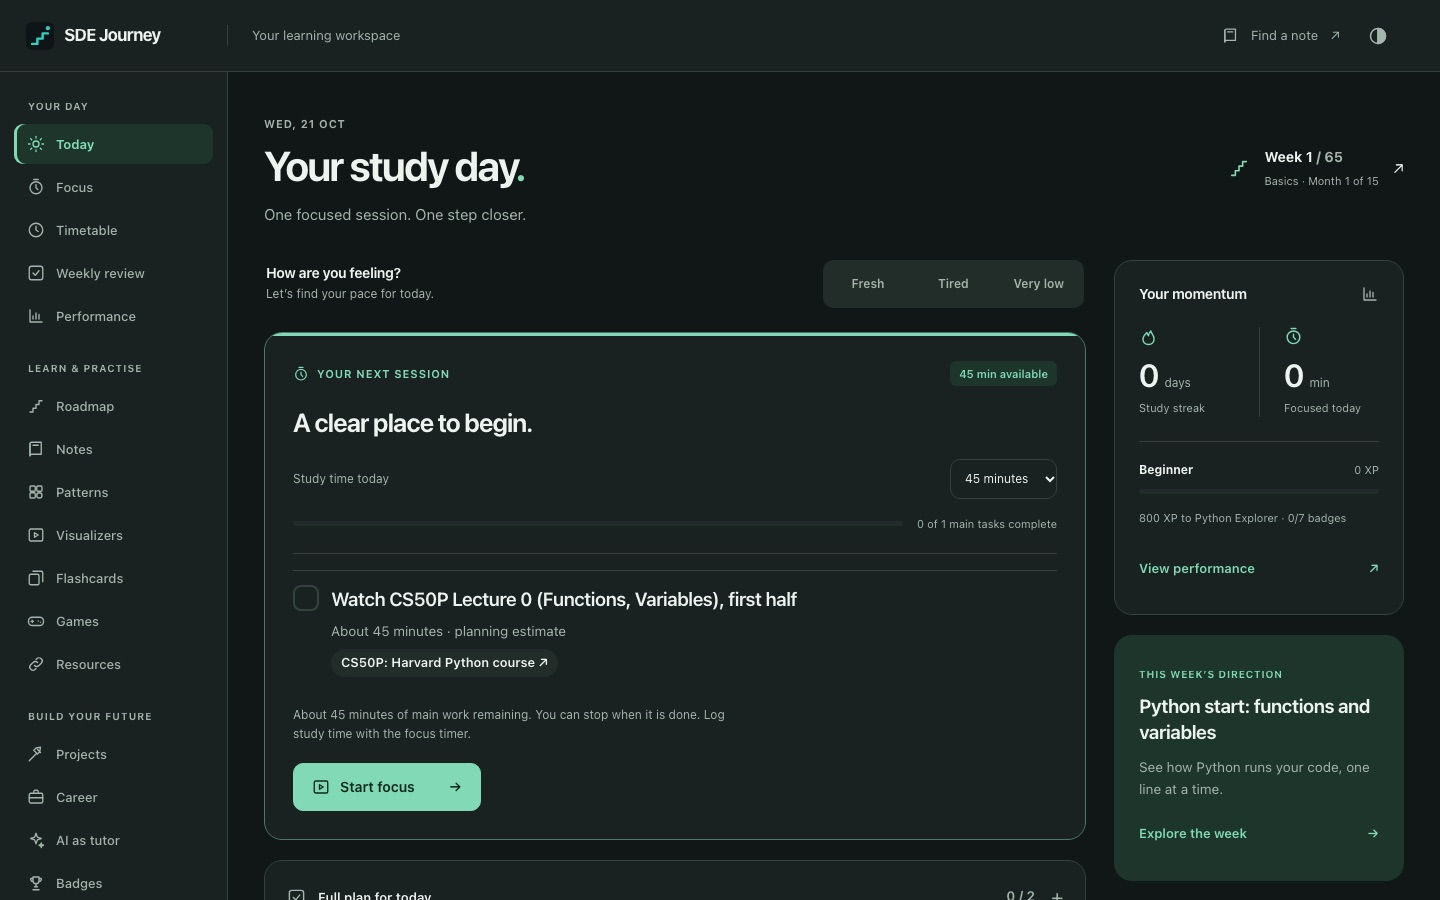
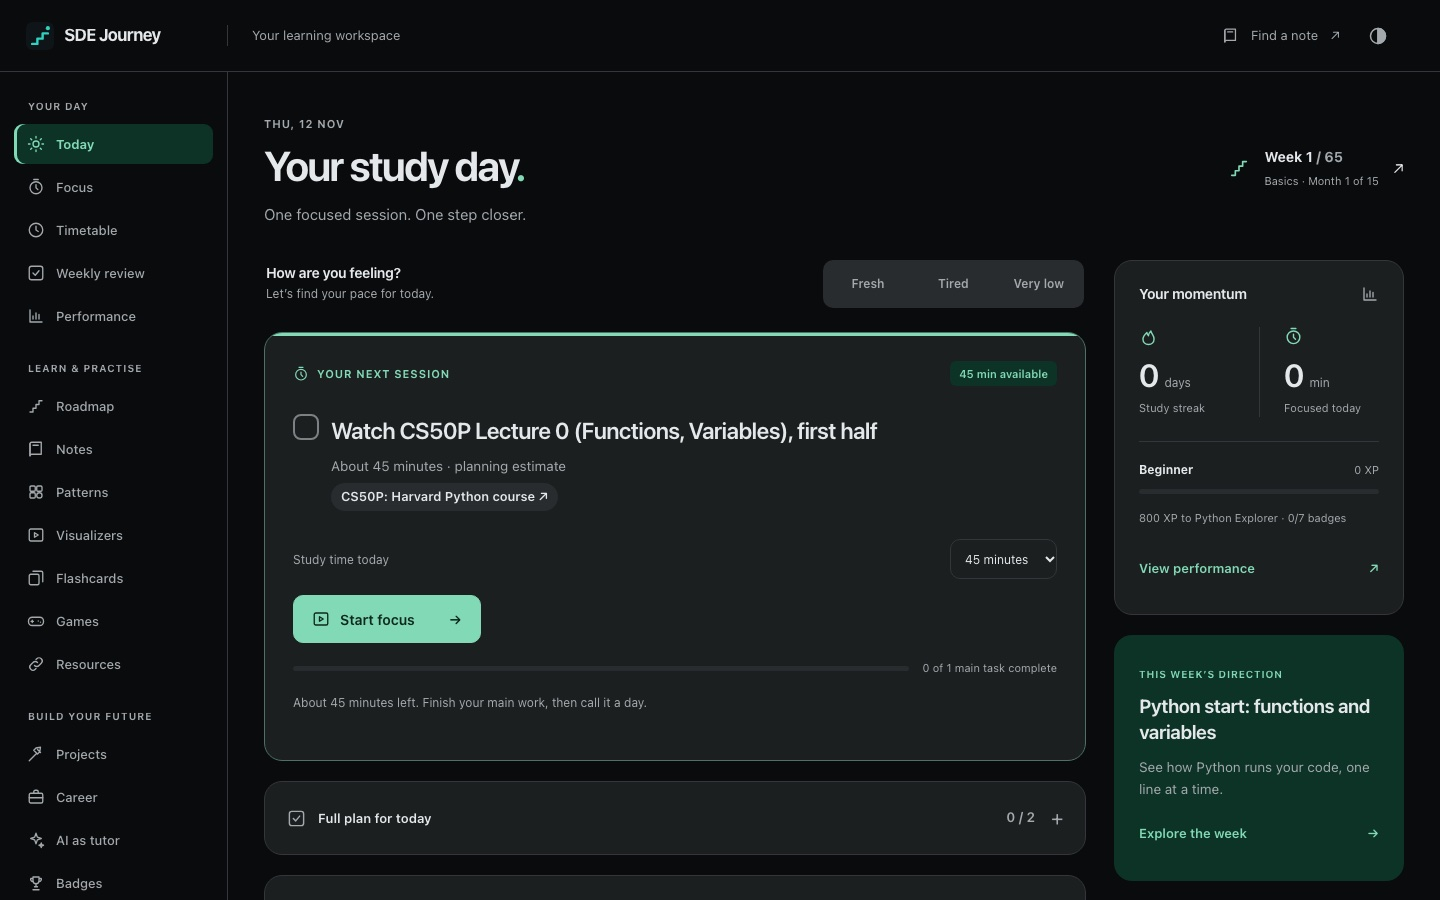
Clearer dark mode
- Neutral greys on near-black instead of green-grey: page and bars black,
  cards clearly lighter, green only where it means something.
- Checkbox outlines reach 3:1 contrast (both themes). Inputs sit into the
  card instead of looking like holes. The selected segment is lighter than
  its track (it looked pressed in before).
- Charts use a calmer green at night.
- The phone status bar matches the top bar in each theme, also when the
  theme is forced with the theme button.
- Confetti uses real theme colours. It was always black, so invisible in
  dark mode.
- README screenshot updated.

diff --git a/src/index.css b/src/index.css
@@ -4,15 +4,22 @@
    ============================================================ */
 :root {
   color-scheme: light dark;
-  --bg: light-dark(#f5f7f6, #111716);
-  --surface: light-dark(#ffffff, #192120);
-  --surface-2: light-dark(#edf1ef, #222d29);
-  --border: light-dark(#dce4df, #34423c);
-  --text: light-dark(#1d3029, #edf3ef);
-  --muted: light-dark(#607168, #a4b5ab);
+  /* Dark: neutral greys on near-black, green only where it means something.
+     Page and bars stay black so the cards are the only lifted layer. */
+  --bg: light-dark(#f5f7f6, #090b0c);
+  --chrome: light-dark(#ffffff, #090b0c); /* top bar, side menu, tab bar */
+  --surface: light-dark(#ffffff, #1c1f20);
+  --surface-2: light-dark(#edf1ef, #282c2e);
+  --raised: light-dark(#ffffff, #33373a); /* selected segment: lighter than its track */
+  --field: light-dark(#f5f7f6, #121516); /* inputs: set into the card, not a black hole */
+  --border: light-dark(#dce4df, #33373a);
+  --control: light-dark(#7e8984, #7c8184); /* checkbox outlines: at least 3:1 on a card */
+  --text: light-dark(#1d3029, #e5e8ea);
+  --muted: light-dark(#607168, #a3a9ac);
   --accent: light-dark(#09694e, #81d9b5);
-  --accent-soft: light-dark(#e8f3ed, #1d352b);
+  --accent-soft: light-dark(#e8f3ed, #0d3326);
   --on-accent: light-dark(#ffffff, #10291e);
+  --chart: light-dark(#09694e, #3da880); /* large filled areas: calmer than the accent at night */
   --warn: light-dark(#a15c07, #f0b45a);
   --danger: light-dark(#b42318, #f88a7e);
 
@@ -52,7 +59,7 @@ button, input, textarea, select { font: inherit; color: inherit; }
 .topbar {
   position: sticky; top: 0; z-index: 10; display: flex; align-items: center; gap: 24px;
   min-height: 72px; padding: env(safe-area-inset-top) 24px 0;
-  background: var(--surface); border-bottom: 1px solid var(--border);
+  background: var(--chrome); border-bottom: 1px solid var(--border);
 }
 .brand { display: flex; align-items: center; gap: 10px; font-size: 17px; font-weight: 700; letter-spacing: -0.04em; color: var(--text); text-decoration: none; white-space: nowrap; }
 .brand img { width: 28px; height: 28px; }
@@ -64,7 +71,7 @@ button, input, textarea, select { font: inherit; color: inherit; }
 .skip-link { position: fixed; left: 16px; top: -100px; z-index: 60; background: var(--accent); color: var(--on-accent); padding: 12px 20px; border-radius: var(--radius-sm); }
 .skip-link:focus { top: 12px; }
 .sr-only { position: absolute; width: 1px; height: 1px; padding: 0; margin: -1px; overflow: hidden; clip-path: inset(50%); white-space: nowrap; border: 0; }
-.tabbar { position: fixed; inset: auto 0 0; z-index: 10; display: grid; grid-template-columns: repeat(5, 1fr); min-height: calc(var(--tabbar-h) + env(safe-area-inset-bottom)); padding: 6px 8px calc(6px + env(safe-area-inset-bottom)); background: var(--surface); border-top: 1px solid var(--border); }
+.tabbar { position: fixed; inset: auto 0 0; z-index: 10; display: grid; grid-template-columns: repeat(5, 1fr); min-height: calc(var(--tabbar-h) + env(safe-area-inset-bottom)); padding: 6px 8px calc(6px + env(safe-area-inset-bottom)); background: var(--chrome); border-top: 1px solid var(--border); }
 .tab { display: flex; flex-direction: column; align-items: center; justify-content: center; gap: 2px; color: var(--muted); text-decoration: none; font-size: 11px; font-weight: 600; min-height: 48px; border-radius: 12px; }
 .tab svg { width: 20px; height: 20px; }
 .tab.active { background: var(--accent-soft); color: var(--accent); }
@@ -76,7 +83,7 @@ button, input, textarea, select { font: inherit; color: inherit; }
   .workspace-label { display: block; padding-left: 24px; border-left: 1px solid var(--border); }
   .tabbar { display: none; }
   .main { padding: 38px 36px 64px; }
-  .sidenav { display: flex; flex-direction: column; gap: 24px; padding: 26px 14px 20px; position: sticky; top: 72px; height: calc(100dvh - 72px); overflow-y: auto; border-right: 1px solid var(--border); background: var(--surface); scrollbar-width: thin; }
+  .sidenav { display: flex; flex-direction: column; gap: 24px; padding: 26px 14px 20px; position: sticky; top: 72px; height: calc(100dvh - 72px); overflow-y: auto; border-right: 1px solid var(--border); background: var(--chrome); scrollbar-width: thin; }
   .nav-group { display: flex; flex-direction: column; gap: 3px; }
   .nav-group-label { font-size: 10px; font-weight: 650; letter-spacing: 0.1em; text-transform: uppercase; color: var(--muted); padding: 0 14px 7px; }
   .sidenav-link { display: flex; align-items: center; gap: 11px; min-height: 40px; padding: 8px 13px; border-radius: 9px; color: var(--muted); text-decoration: none; font-weight: 500; font-size: 13px; }
@@ -138,7 +145,7 @@ button, input, textarea, select { font: inherit; color: inherit; }
 /* Native checkbox, restyled. appearance:none keeps keyboard and screen-reader support. */
 .tick {
   appearance: none; flex: none; margin: 0; width: 26px; height: 26px; cursor: pointer;
-  border: 2px solid var(--border); border-radius: 8px; background: var(--surface);
+  border: 2px solid var(--control); border-radius: 8px; background: var(--surface);
   display: grid; place-content: center; transition: background 0.15s, border-color 0.15s;
 }
 .tick::before {
@@ -179,7 +186,7 @@ a.chip:hover { background: var(--accent-soft); color: var(--accent); }
 .energy-check p { margin: 0; font-size: 12px; }
 .segmented { display: grid; grid-template-columns: repeat(3, minmax(0, 1fr)); gap: 3px; padding: 4px; border-radius: 10px; background: var(--surface-2); }
 .segmented button { min-height: 40px; padding: 7px 16px; border: 0; border-radius: 7px; background: none; font-size: 12px; font-weight: 600; cursor: pointer; color: var(--muted); }
-.segmented button.on { background: var(--surface); color: var(--text); box-shadow: 0 1px 4px light-dark(#1d30291a, #00000030); }
+.segmented button.on { background: var(--raised); color: var(--text); box-shadow: 0 1px 4px light-dark(#1d30291a, #00000030); }
 .daily-study { position: relative; border-color: color-mix(in srgb, var(--accent) 35%, var(--border)); background: var(--surface); padding: 28px; overflow: hidden; }
 .daily-study::before { content: ''; position: absolute; top: 0; left: 0; right: 0; height: 3px; background: var(--accent); }
 .session-topline { display: flex; justify-content: space-between; align-items: center; gap: 12px; margin-bottom: 20px; }
@@ -263,7 +270,7 @@ a.chip:hover { background: var(--accent-soft); color: var(--accent); }
 /* ---------- Forms ---------- */
 .input {
   width: 100%; padding: 10px 12px; border-radius: var(--radius-sm); border: 1px solid var(--border);
-  background: var(--bg); color: var(--text); resize: vertical;
+  background: var(--field); color: var(--text); resize: vertical;
 }
 .input:focus { outline: 2px solid var(--accent); outline-offset: 0; border-color: transparent; }
 .btn.danger { color: var(--danger); border-color: var(--danger); background: none; }
@@ -486,7 +493,7 @@ a.stat:hover { border-color: var(--accent); }
 .bar.is-warn > span { background: var(--warn); }
 .insights { margin: 0; padding-left: 20px; display: grid; gap: 8px; }
 .chart { display: block; width: 100%; max-width: 560px; height: auto; margin: 4px 0 12px; overflow: visible; }
-.chart-bar { fill: var(--accent); }
+.chart-bar { fill: var(--chart); }
 .chart-axis { stroke: var(--border); stroke-width: 1; }
 .chart-label, .chart-value { font-size: 9px; fill: var(--muted); }
 .chart-value { fill: var(--text); }
@@ -506,7 +513,7 @@ a.stat:hover { border-color: var(--accent); }
 /* ---------- Library, roadmap and reading ---------- */
 .library-count { display: inline-block; margin-top: 18px; font-size: 12px; color: var(--accent); }
 .library-filters { padding: 18px; }
-.library-filters input[type=search] { min-height: 50px; background: var(--bg); font-size: 15px; }
+.library-filters input[type=search] { min-height: 50px; background: var(--field); font-size: 15px; }
 .library-section > .section-title { padding-bottom: 18px; }
 .library-section h2 { display: flex; gap: 12px; align-items: center; font-size: 15px; }
 .section-letter { display: grid; place-items: center; width: 30px; height: 30px; flex-shrink: 0; background: var(--accent-soft); color: var(--accent); border-radius: 8px; font-size: 12px; }

diff --git a/index.html b/index.html
@@ -5,14 +5,19 @@
     <link rel="icon" type="image/svg+xml" href="/favicon.svg" />
     <link rel="apple-touch-icon" href="/apple-touch-icon.png" />
     <meta name="viewport" content="width=device-width, initial-scale=1.0, viewport-fit=cover" />
-    <meta name="theme-color" content="#0f1419" />
+    <!-- The phone's status bar takes the top bar's colour (--chrome in src/index.css; also in src/lib/theme.ts). -->
+    <meta name="theme-color" content="#ffffff" media="(prefers-color-scheme: light)" />
+    <meta name="theme-color" content="#090b0c" media="(prefers-color-scheme: dark)" />
     <meta name="description" content="A 15-month study plan from Python basics to SDE interviews." />
     <title>SDE Journey</title>
     <script>
       // Set the saved theme before the page paints, so there is no white flash at night.
       try {
         var t = localStorage.getItem('sdej-theme')
-        if (t === 'light' || t === 'dark') document.documentElement.dataset.theme = t
+        if (t === 'light' || t === 'dark') {
+          document.documentElement.dataset.theme = t
+          document.querySelectorAll('meta[name=theme-color]').forEach(function (m) { m.content = t === 'dark' ? '#090b0c' : '#ffffff' })
+        }
       } catch (e) {}
     </script>
   </head>

diff --git a/src/components/Celebrations.tsx b/src/components/Celebrations.tsx
@@ -35,8 +35,13 @@ function burst(canvas: HTMLCanvasElement) {
   if (!ctx) return
   canvas.width = innerWidth
   canvas.height = innerHeight
-  const css = getComputedStyle(document.documentElement)
-  const colors = ['--accent', '--warn', '--danger', '--text'].map((v) => css.getPropertyValue(v).trim() || '#2dd4bf')
+  // The variables hold light-dark(...) pairs, which a canvas can't read. A real `color` resolves them for the current theme.
+  const probe = document.body.appendChild(document.createElement('i'))
+  const colors = ['--accent', '--warn', '--danger', '--text'].map((v) => {
+    probe.style.color = `var(${v})`
+    return getComputedStyle(probe).color
+  })
+  probe.remove()
   const pieces = Array.from({ length: 140 }, () => ({
     x: canvas.width / 2 + (Math.random() - 0.5) * 80,
     y: canvas.height / 3,

diff --git a/src/lib/theme.ts b/src/lib/theme.ts
@@ -3,6 +3,8 @@
 export type Theme = 'system' | 'light' | 'dark'
 
 const KEY = 'sdej-theme'
+// The phone's status bar matches the top bar (--chrome in index.css).
+const BAR = { light: '#ffffff', dark: '#090b0c' }
 
 export function readTheme(): Theme {
   try {
@@ -17,6 +19,9 @@ export function applyTheme(t: Theme) {
   const root = document.documentElement
   if (t === 'system') delete root.dataset.theme
   else root.dataset.theme = t
+  // "system": each meta keeps the colour of its own media query; a forced theme sets both.
+  for (const m of document.querySelectorAll<HTMLMetaElement>('meta[name="theme-color"]'))
+    m.content = BAR[t === 'system' ? (m.media.includes('dark') ? 'dark' : 'light') : t]
   try {
     if (t === 'system') localStorage.removeItem(KEY)
     else localStorage.setItem(KEY, t)

diff --git a/vite.config.ts b/vite.config.ts
@@ -18,8 +18,8 @@ export default defineConfig({
         name: 'SDE Journey',
         short_name: 'SDE Journey',
         description: '15-month study plan: Python, DSA, backend, interviews.',
-        theme_color: '#0f1419',
-        background_color: '#0f1419',
+        theme_color: '#090b0c',
+        background_color: '#090b0c',
         display: 'standalone',
         icons: [
           { src: 'pwa-192.png', sizes: '192x192', type: 'image/png' },
